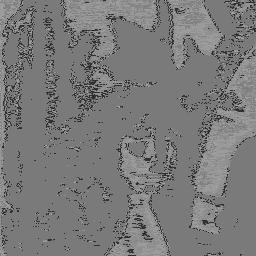
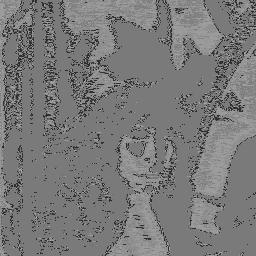
lpf padding 앞뒤추가

diff --git a/Assignment/Jiyeon/디지털 신호처리 프로젝트/FIR_LPF_Filtering.m b/Assignment/Jiyeon/디지털 신호처리 프로젝트/FIR_LPF_Filtering.m
@@ -3,15 +3,15 @@
 function [result, filterOrder] = FIR_LPF_Filtering(x,y)
 
 %% moving average filter
-order = 9;
+order = 5;
 y_n = zeros(size(x));
 [row,col] = size(x);
 
 for i= 1:col 
-    inputX = [zeros(1,order-1),x(i,:)];
+    inputX = [zeros(1,order-1),x(i,:),zeros(1,order-1)];
     for j = 1:row 
-        for k = 1:order
-            y(i,j) = y(i,j)+inputX(j+k-1);
+        for k = 1:order-1
+            y(i,j) = y(i,j)+inputX(j+k);
         end
         y_n(i,j)= (1/order)*y(i,j);
     end

diff --git a/Assignment/Jiyeon/디지털 신호처리 프로젝트/main.m b/Assignment/Jiyeon/디지털 신호처리 프로젝트/main.m
@@ -6,11 +6,11 @@
 y=uint8(zeros(size(x)));
 
 [y,order] = FIR_LPF_Filtering(x,y);
-[z,b] = FIR_HPF_Filtering(x,y);
+% [z,b] = FIR_HPF_Filtering(x,y);
 
 %% save files 
 fileNameLPF = strcat('lena',string(order),'_LPF.jpg'); 
 imwrite(y,map,fileNameLPF);
 
-fileNameHPF = strcat('lena',string(b),'_HPF.jpg'); 
-imwrite(z,map,fileNameHPF);
+% fileNameHPF = strcat('lena',string(b),'_HPF.jpg'); 
+% imwrite(z,map,fileNameHPF);
